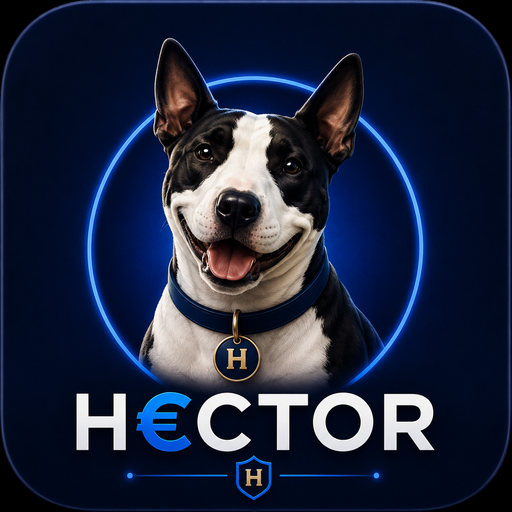
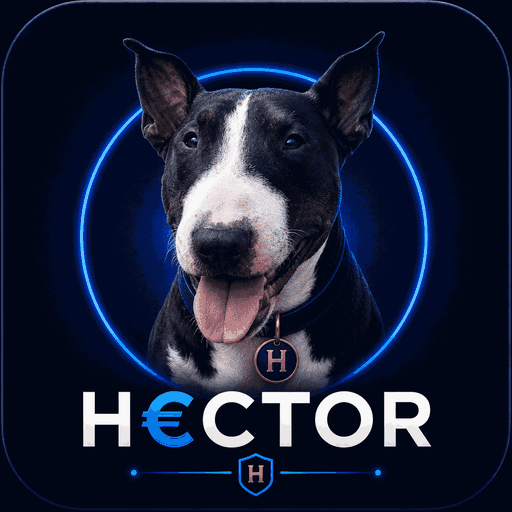
Icones web : nouvelle identite (portrait Hector + anneau)
Genere toutes les tailles depuis l'asset source (1254px) :
- favicon.ico multi-tailles (16/32/48) + favicon-32/16.png : variante
  "tete seule" (la version complete est illisible a 32px, texte en bouillie
  - comparatif fait avant push).
- hector-icon-180.png (apple-touch-icon dedie).
- hector-icon-192/512.png remplacees (version complete, purpose any).
- hector-icon-192/512-maskable.png : contenu dans les 80% centraux
  (safe zone), fond assorti au bord de l'image.

Poids optimises (quantization) : 512=94 Ko, tout le reste < 20 Ko.
manifest.webmanifest : entrees any et maskable separees (le "any maskable"
fusionne exposait le texte au recadrage des launchers).
index.html : favicon.ico + PNG 32/16 + apple-touch 180.

hector-tete.png reste utilise dans l'app (logo interne). L'icone du build
Play Store (hector-android) n'est pas touchee (lot mi-aout).

diff --git a/index.html b/index.html
@@ -2,8 +2,10 @@
 <html lang="fr">
   <head>
     <meta charset="UTF-8" />
-    <link rel="icon" type="image/png" href="/hector-tete.png" />
-    <link rel="apple-touch-icon" href="/hector-icon-192.png" />
+    <link rel="icon" href="/favicon.ico" sizes="48x48" />
+    <link rel="icon" type="image/png" sizes="32x32" href="/favicon-32.png" />
+    <link rel="icon" type="image/png" sizes="16x16" href="/favicon-16.png" />
+    <link rel="apple-touch-icon" sizes="180x180" href="/hector-icon-180.png" />
     <meta name="viewport" content="width=device-width, initial-scale=1.0" />
     <meta name="theme-color" content="#07192E" />
     <title>H€CTOR — Le compagnon des intermittents et des auto-entrepreneurs</title>